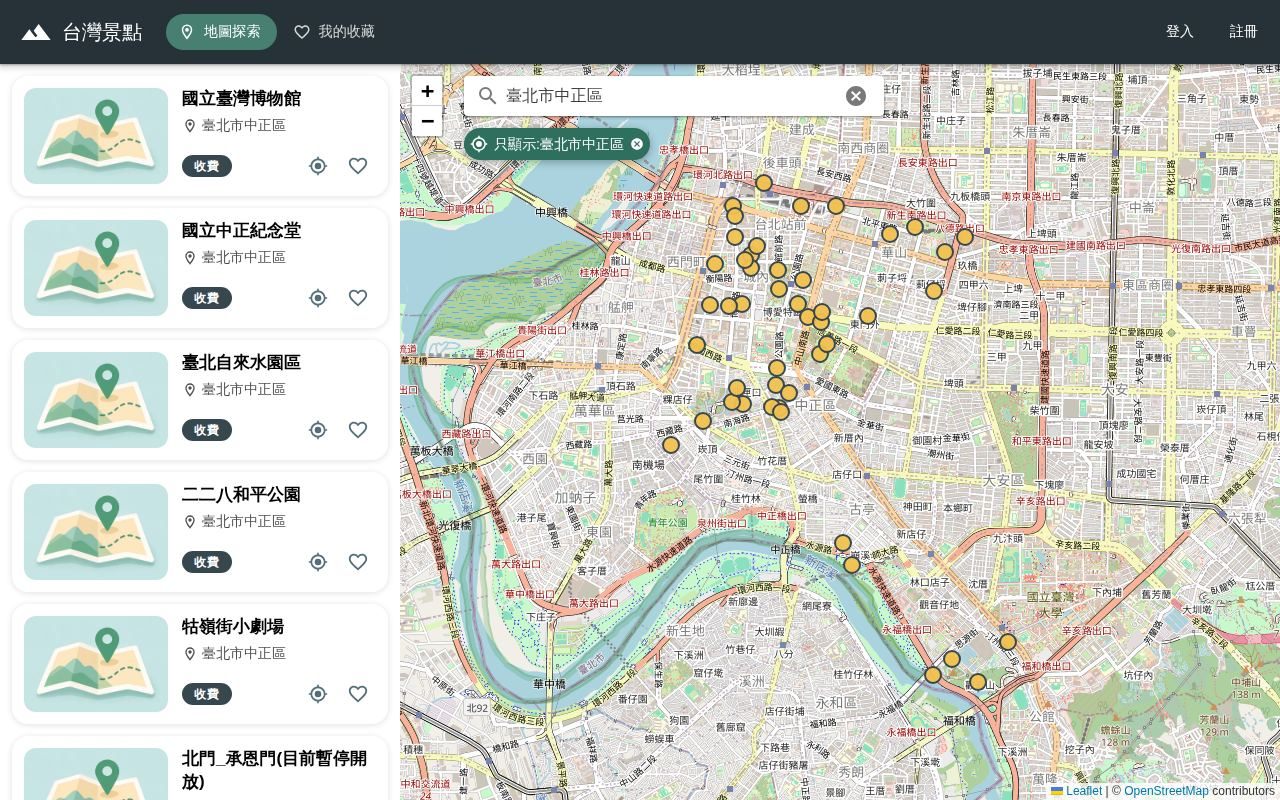
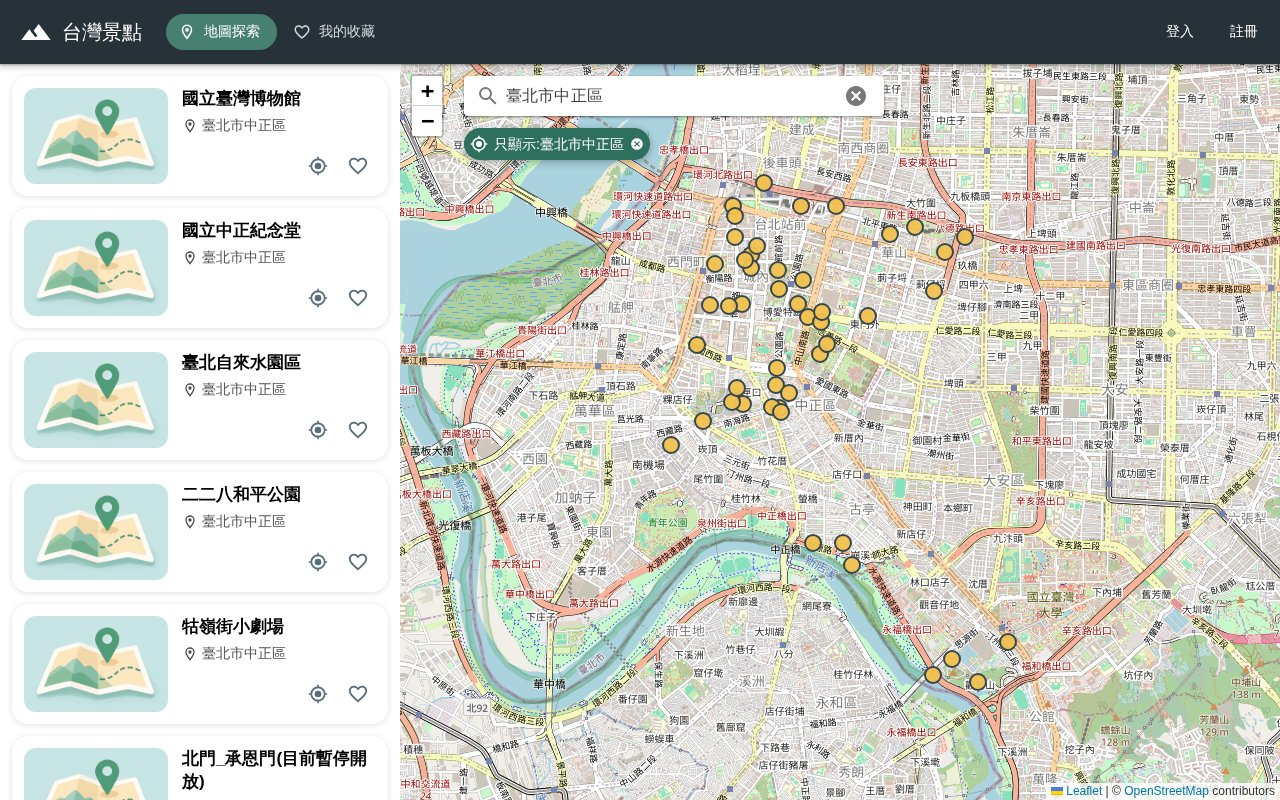
docs: update screenshots, add demo gif and architecture diagram

diff --git a/README.md b/README.md
@@ -10,7 +10,9 @@
   <img src="docs/screenshots/desktop.jpg" alt="桌機版:搜尋「台北市中正區」後,只顯示該區的景點" width="100%">
 </p>
 <p align="center">
-  <img src="docs/screenshots/mobile.jpg" alt="手機版:地圖在上、景點卡片橫向捲動" width="320">
+  <img src="docs/screenshots/demo.gif" alt="手機版操作:開啟全螢幕搜尋、輸入「九份」、選擇景點,地圖跳過去並選取對應的卡片" width="300">
+  &nbsp;&nbsp;
+  <img src="docs/screenshots/mobile.jpg" alt="手機版:地圖在上、景點卡片放在可拖曳的 bottom sheet" width="300">
 </p>
 
 ## 功能
@@ -20,7 +22,32 @@
 - **地區篩選**:選了某個縣市或鄉鎮後,列表只顯示該地區的景點,地圖上有標籤標示目前的篩選,點標籤回到該區,按 × 取消
 - **收藏**:樂觀更新(先更新畫面,失敗再還原並提示);沒登入時按愛心會導去登入,登入後自動完成剛才的收藏
 - **登入系統**:Email 註冊/登入,登出或登入逾期會自動離開需要登入的頁面
-- **響應式**:1024px 以下地圖在上、卡片橫向捲動
+- **響應式**:960px 以下地圖在上、景點放在可拖曳的 bottom sheet(收起/半開/全開);觸控裝置的搜尋是全螢幕頁面,避免鍵盤擋住下拉選單
+
+## 架構
+
+```mermaid
+flowchart LR
+  subgraph Web["瀏覽器 (apps/web)"]
+    Home["HomeView"] --> HC["usePlaces · useAreaFilter<br/>useSelection<br/>useSearch(搜尋元件內)"]
+    Home --> Mut["useFavoriteMutation"]
+    Home --> Map["Leaflet 地圖"]
+    Fav["FavoritesView"] --> FC["useFavorites"]
+    Fav --> Mut
+    Auth["Pinia: auth store<br/>全站共用的登入狀態"]
+    HC --> Svc["services<br/>places · favorite · auth"]
+    FC --> Svc
+    Mut --> Svc
+    Auth --> Svc
+  end
+  subgraph Server["Lightsail · Docker Compose"]
+    Caddy["Caddy<br/>自動 HTTPS"] --> Api["Express 5 API<br/>(apps/api)"]
+    Api --> DB[("PostgreSQL<br/>Prisma 7")]
+  end
+  Shared["packages/shared<br/>zod schema 與型別"] -. 共用驗證 .-> Web
+  Shared -. 共用驗證 .-> Api
+  Svc -- "REST + httpOnly cookie" --> Caddy
+```
 
 ## 技術
 
